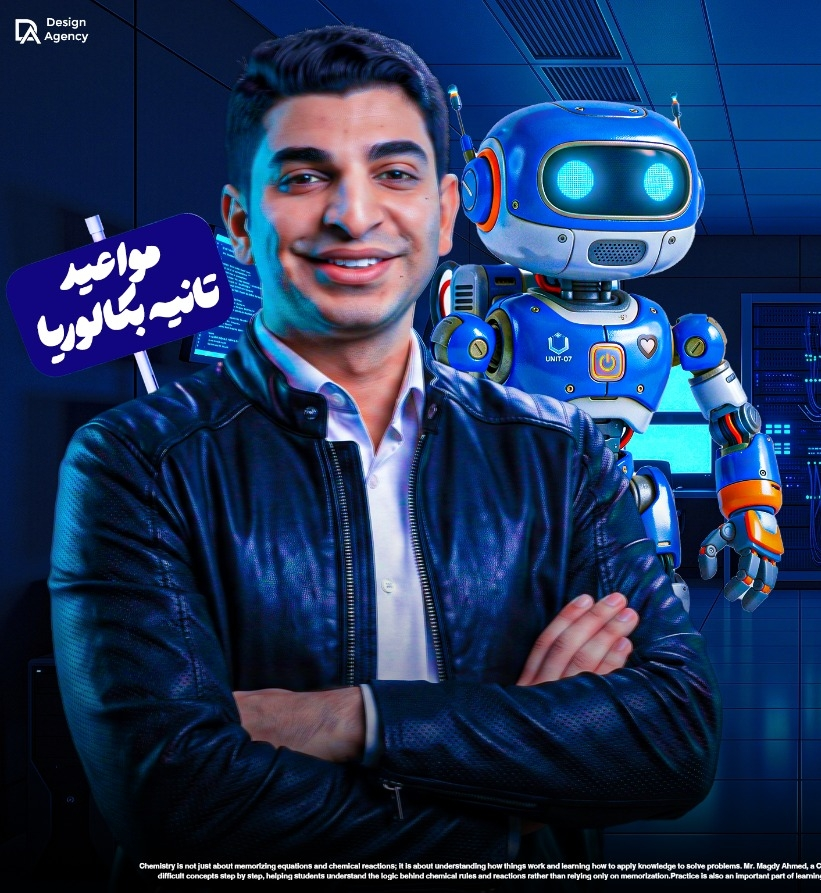
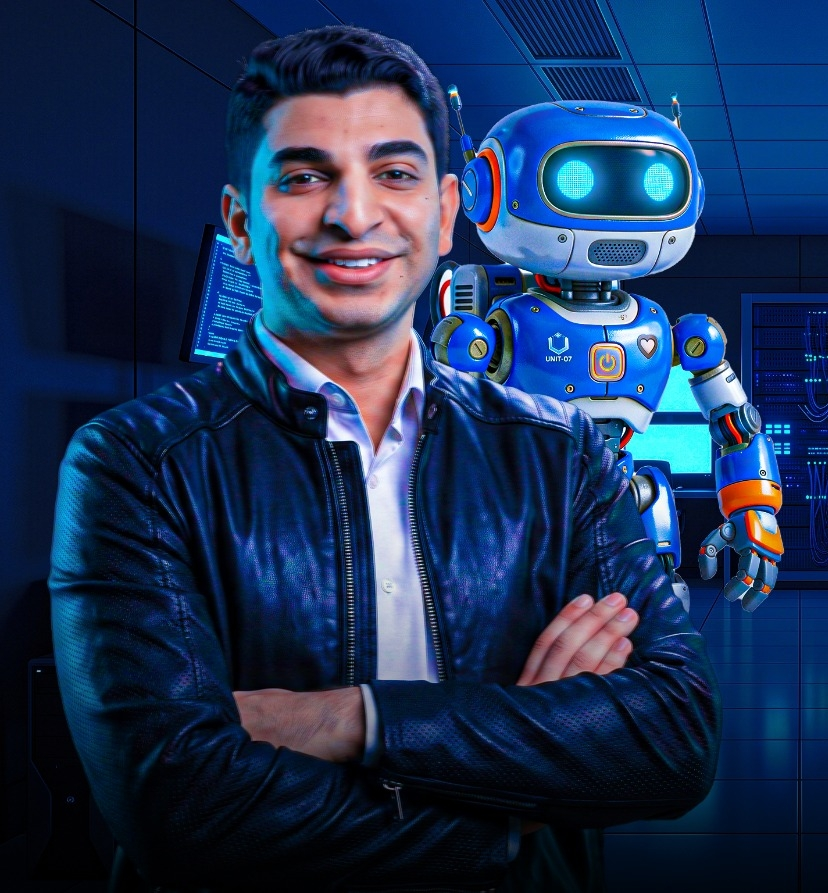
Update website

diff --git a/index.html b/index.html
@@ -114,7 +114,7 @@
 
             <ul class="teacher-list">
                 <li class="teacher reveal">
-                    <img src="images/7.jpg" alt="" loading="lazy" decoding="async">
+                    <img src="images/7.png" alt="" loading="lazy" decoding="async">
                     <span class="teacher-name" data-ar="مستر مجدي احمد" data-en="Mr. Magdy Ahmed">مستر مجدي احمد</span>
                     <span class="teacher-role" data-ar="مدرس العلوم المتكاملة - الكيمياء" data-en="Integrated Science Teacher - Chemistry">مدرس العلوم المتكاملة - الكيمياء</span>
                 </li>
